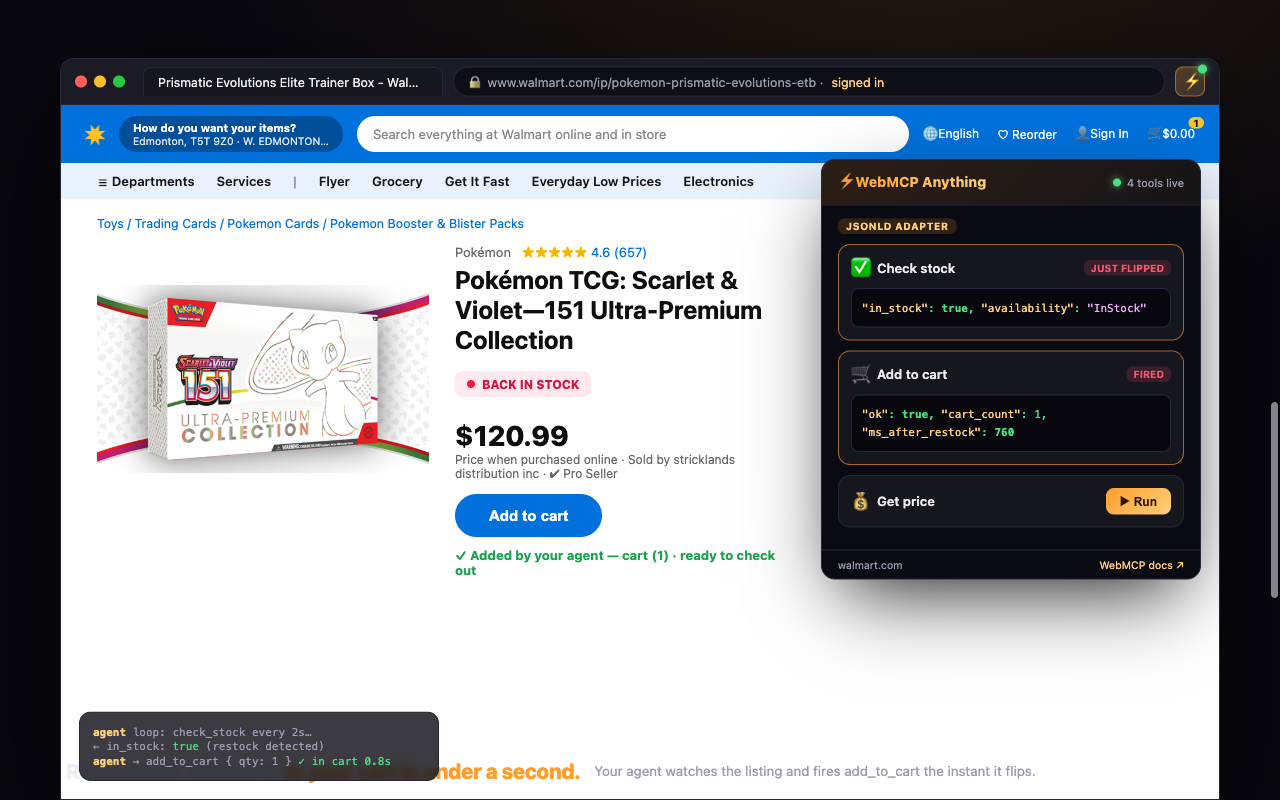
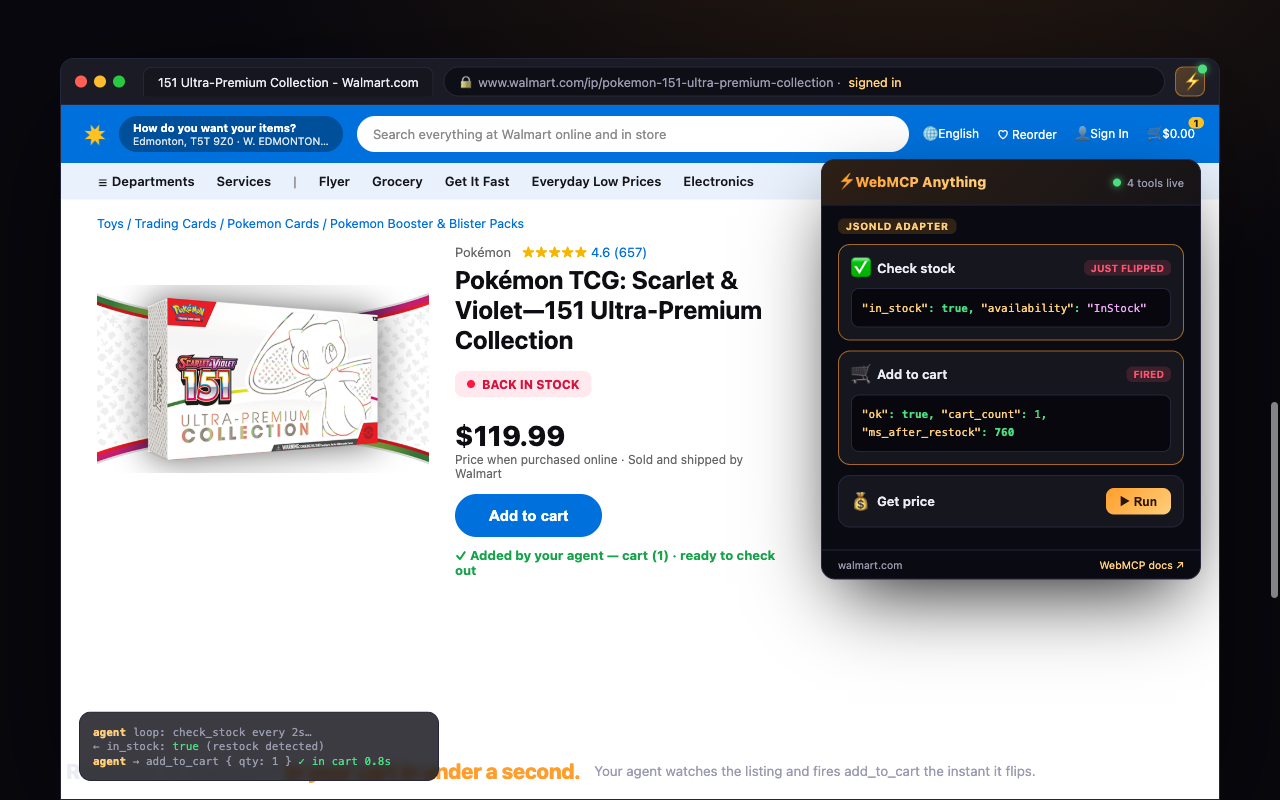
fix(store): use real retail prices (not screenshot/placeholder numbers)
Looked up actual MSRP instead of guessing/copying the listing prices:
- Pokémon Center Ascended Heroes ETB: $59.99 (was $80.99 CAD listing)
- Walmart 151 Ultra-Premium Collection: $119.99 (was $120.99 3rd-party markup;
  seller line → "Sold and shipped by Walmart")
- Sam's Club Prismatic Evolutions ETB: $49.99 (was an invented $49.98)

Also fixed the Walmart/Sam's browser tab titles + URLs that still referenced
the pre-swap products. Sources: pokemoncenter.com official listings.

Changed region(s): [[0.125, 0.0938, 0.6875, 0.125], [0.375, 0.5312, 0.4688, 0.5938], [0.5, 0.5625, 0.5938, 0.5938]]

diff --git a/launch/store-assets/scenes.html b/launch/store-assets/scenes.html
@@ -170,7 +170,7 @@
             <div style="color:#f6b500;font-size:15px">★★★★★ <span style="color:#444;font-size:12.5px">Read 3,477 Reviews | 41 Questions</span></div>
             <h1 style="margin-top:8px">Pokémon TCG: Mega Evolution-Ascended Heroes Pokémon Center Elite Trainer Box</h1>
             <div class="badge b-live" style="margin-top:8px"><span class="pulse"></span>RESTOCKED — was UNAVAILABLE</div>
-            <div style="color:#0d6efd;font-weight:800;font-size:26px;margin-top:10px">$80.99 <span style="font-size:14px">CAD</span></div>
+            <div style="color:#0d6efd;font-weight:800;font-size:26px;margin-top:10px">$59.99</div>
             <button style="background:#e3000f;color:#fff;border:none;border-radius:6px;padding:14px 0;font-weight:800;font-size:14px;width:100%;max-width:340px;margin-top:14px;cursor:pointer">ADD TO CART</button>
             <div class="added">✓ Added by your agent the instant it flipped — cart (1)</div>
           </div>
@@ -207,8 +207,8 @@
   <div class="browser">
     <div class="chrome">
       <div class="dots"><i class="r"></i><i class="y"></i><i class="g"></i></div>
-      <div class="tab">Prismatic Evolutions Elite Trainer Box - Walmart.com</div>
-      <div class="omni"><span class="lock">🔒</span> www.walmart.com/ip/pokemon-prismatic-evolutions-etb · <span class="li">signed in</span></div>
+      <div class="tab">151 Ultra-Premium Collection - Walmart.com</div>
+      <div class="omni"><span class="lock">🔒</span> www.walmart.com/ip/pokemon-151-ultra-premium-collection · <span class="li">signed in</span></div>
       <div class="ext-pin">⚡<span class="ping"></span></div>
     </div>
     <div class="page">
@@ -230,8 +230,8 @@
             <div style="color:#666;font-size:13px">Pokémon &nbsp; <span style="color:#f6b500">★★★★★</span> <span style="color:#0071dc">4.6 (657)</span></div>
             <h1 style="margin-top:6px">Pokémon TCG: Scarlet &amp; Violet—151 Ultra-Premium Collection</h1>
             <div class="badge b-live" style="margin-top:8px"><span class="pulse"></span>BACK IN STOCK</div>
-            <div style="font-size:28px;font-weight:800;color:#0e0e12;margin-top:10px">$120.99</div>
-            <div style="color:#666;font-size:12px">Price when purchased online · Sold by stricklands distribution inc · ✔ Pro Seller</div>
+            <div style="font-size:28px;font-weight:800;color:#0e0e12;margin-top:10px">$119.99</div>
+            <div style="color:#666;font-size:12px">Price when purchased online · Sold and shipped by Walmart</div>
             <button style="background:#0071dc;color:#fff;border:none;border-radius:999px;padding:13px 34px;font-weight:700;font-size:15px;margin-top:14px;cursor:pointer">Add to cart</button>
             <div class="added">✓ Added by your agent — cart (1) · ready to check out</div>
           </div>
@@ -268,8 +268,8 @@
   <div class="browser">
     <div class="chrome">
       <div class="dots"><i class="r"></i><i class="y"></i><i class="g"></i></div>
-      <div class="tab">151 Ultra-Premium Collection – Sam's Club</div>
-      <div class="omni"><span class="lock">🔒</span> www.samsclub.com/p/151-ultra-premium-collection · <span class="li">signed in</span></div>
+      <div class="tab">Prismatic Evolutions Elite Trainer Box – Sam's Club</div>
+      <div class="omni"><span class="lock">🔒</span> www.samsclub.com/p/pokemon-prismatic-evolutions-etb · <span class="li">signed in</span></div>
       <div class="ext-pin">⚡<span class="ping"></span></div>
     </div>
     <div class="page">
@@ -290,7 +290,7 @@
             <div style="color:#0071ce;font-weight:700;font-size:13px;margin-bottom:6px">In 50+ people's carts</div>
             <h1>Pokémon TCG: Prismatic Evolutions Elite Trainer Box</h1>
             <div class="rate" style="margin-top:4px"><span style="color:#f6b500">★★★★★</span> 4.8 · 28 ratings · Item # 990454061</div>
-            <div style="font-size:28px;font-weight:800;color:#0e0e12;margin-top:8px">$49.98</div>
+            <div style="font-size:28px;font-weight:800;color:#0e0e12;margin-top:8px">$49.99</div>
             <div style="color:#666;font-size:11.5px">Prices may vary in club and online</div>
             <div class="badge b-low" style="margin-top:8px">⚠ Low in stock</div>
             <div class="fulfil">
